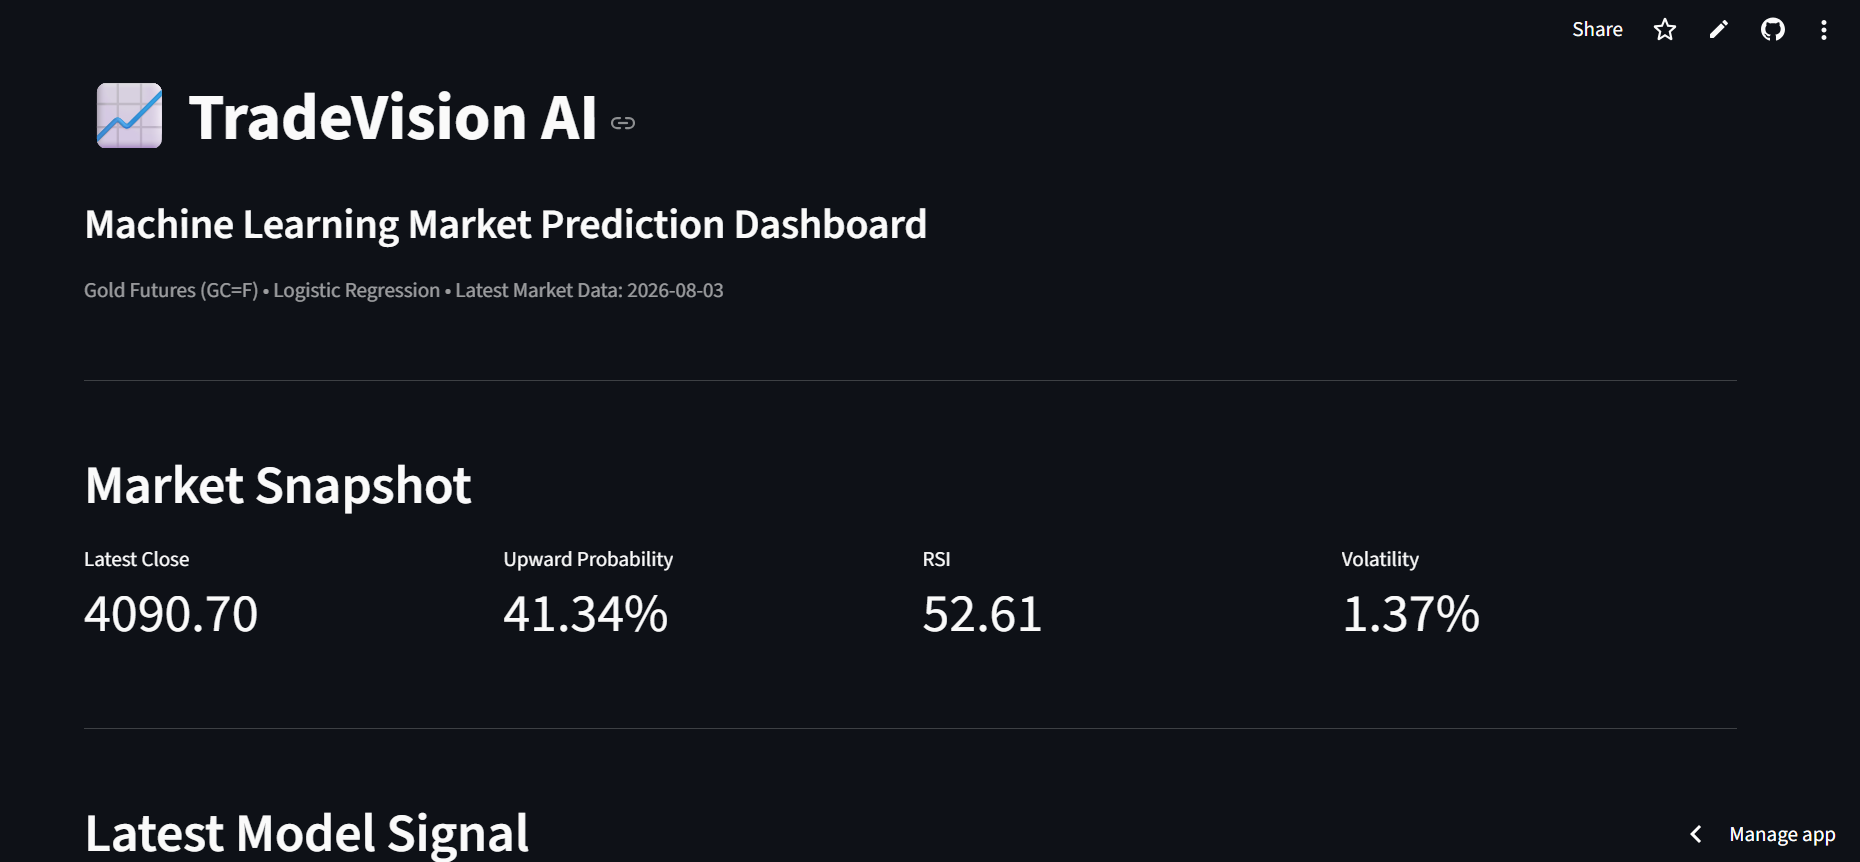
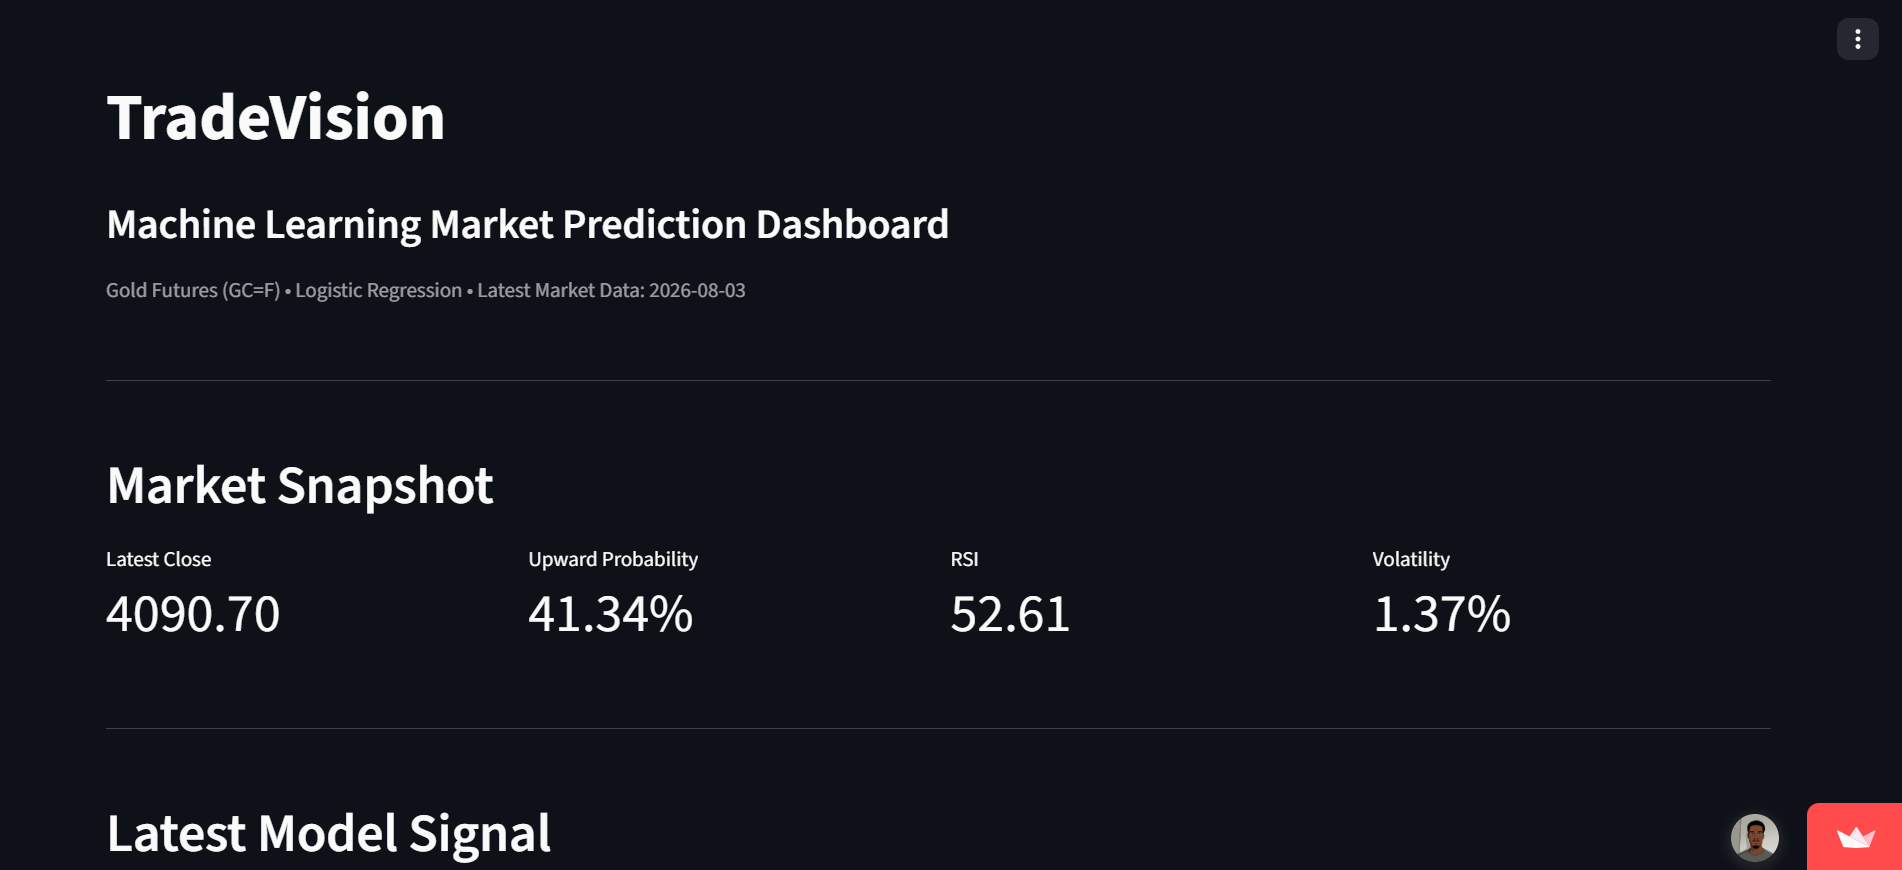
Update dashboard title and add main screenshot asset

diff --git a/dashboard/app.py b/dashboard/app.py
@@ -16,7 +16,7 @@ from src.models.prepare_data import prepare_dataset
 # ---------------------------------------------------------
 
 st.set_page_config(
-    page_title="TradeVision-AI 📈",
+    page_title="TradeVision",
     page_icon="📈",
     layout="wide",
 )
